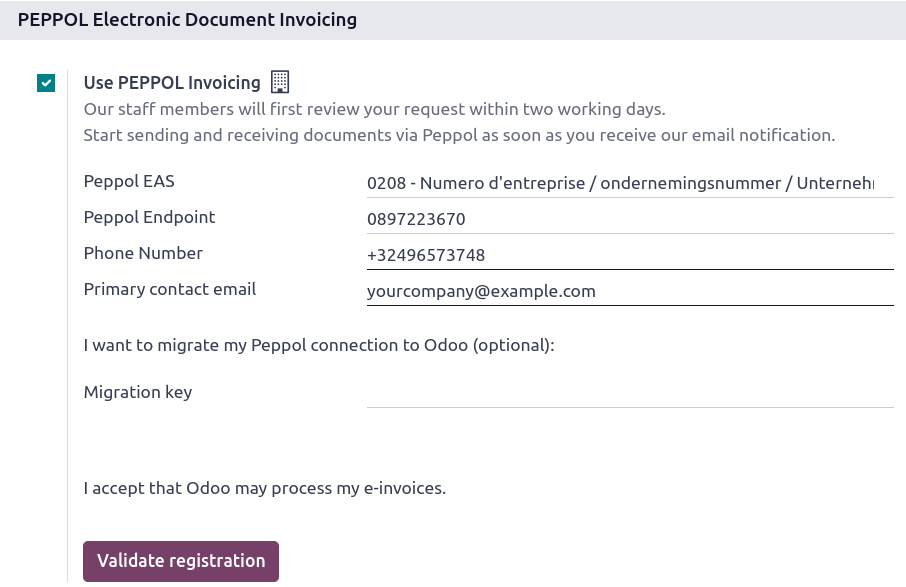
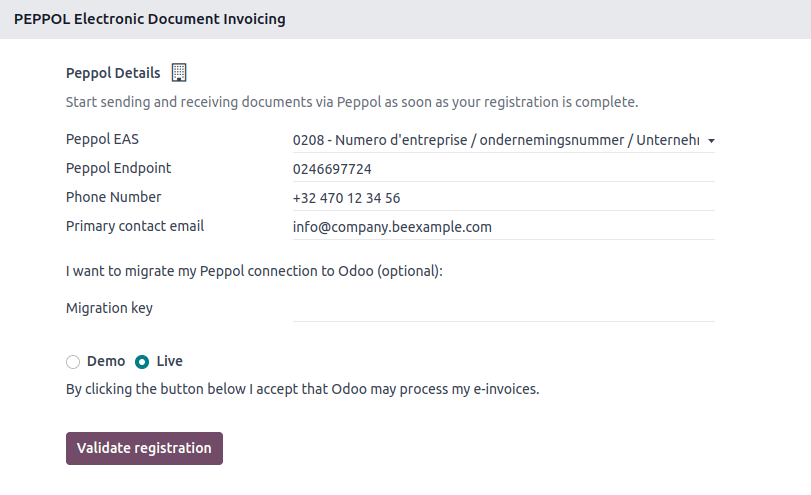
[IMP] accounting: peppol
In 17.0 we have introduced some additional features in Peppol:
- switching between the demo mode/test mode/live
- better UI that allows fetch peppol message status, new documents, etc from the accounting dashboard
- peppol ready filter to filter customer invoices that are ready to be sent via peppol

part of:
task-3614809

X-original-commit: 47300c10bfd5f77bc04afe04745d96b63a492984

Changed region(s): [[0.0617, 0.2727, 0.9864, 1.0], [0.0308, 0.1212, 0.9248, 0.2424], [0.0, 0.0, 0.4007, 0.0606]]

diff --git a/content/applications/finance/accounting/customer_invoices/electronic_invoicing.rst b/content/applications/finance/accounting/customer_invoices/electronic_invoicing.rst
@@ -124,8 +124,14 @@ If not done yet, :ref:`install <general/install>` the :guilabel:`Peppol` module 
 Registration
 ------------
 
-Go to :menuselection:`Accounting --> Configuration --> Settings`, tick the :guilabel:`Use PEPPOL
-Invoicing` checkbox, and fill in the following information:
+Go to :menuselection:`Accounting --> Configuration --> Settings`. If you do not have the
+Peppol module installed, first tick the :guilabel:`Enable PEPPOL` checkbox and then **manually
+save**.
+
+.. image:: electronic_invoicing/peppol-install.png
+   :alt: Peppol module installation
+
+Fill in the following information:
 
 - :guilabel:`Peppol EAS`. This is the Peppol Electronic Address Scheme and usually depends on your
   company's country. Odoo often prefills this with the most commonly used EAS code in your country.
@@ -145,14 +151,21 @@ previous provider.
 .. image:: electronic_invoicing/peppol-settings.png
    :alt: Configuration for peppol
 
-Finally, click on :guilabel:`Validate registration`.
+Finally, click :guilabel:`Validate registration`. If you want to explore or demo Peppol, you can
+choose to register in :guilabel:`Demo` mode. Otherwise, select :guilabel:`Live`.
+
+   .. image:: electronic_invoicing/peppol-demo-mode.png
+      :alt: Peppol demo mode selection
 
 .. note::
    When testing Peppol, the system parameter `account_peppol.edi.mode` can be changed to `test`.
-   Then, the registration occurs on the test server.
+   Then, a radio button appears with the option to register on the test server.
 
    .. image:: electronic_invoicing/peppol-system-parameter.png
-      :alt: Peppol test mode
+      :alt: Peppol test mode parameter
+
+   .. image:: electronic_invoicing/peppol-test-mode-settings.png
+      :alt: Peppol test mode selection
 
 Now, you can request a verification code to be sent to you by clicking :guilabel:`Verify phone
 number`.
@@ -205,6 +218,10 @@ is set to Valid.
    While Odoo prefills both the EAS code and the Endpoint number based on the information available
    for a contact, it is better to confirm these details directly with the contact.
 
+It is possible to verify the Peppol participant status of several customers at once.
+To do so, go to :menuselection:`Accounting --> Customers --> Customers` and switch to the list view.
+Select the customers you want to verify and then click :menuselection:`Actions --> Verify Peppol`.
+
 Send invoices
 -------------
 
@@ -215,6 +232,13 @@ invoice form. To queue multiple invoices, select them in the list view and click
 
 .. image:: electronic_invoicing/peppol-send-print.png
    :alt: Send peppol invoice
+
+Posted invoices that can be sent via Peppol are marked as :guilabel:`Peppol Ready`.
+To display them, use the :guilabel:`Peppol Ready` filter or access the Accounting dashboard and
+click :guilabel:`Peppol ready invoices` on the corresponding sales journal.
+
+.. image:: electronic_invoicing/peppol-ready-invoices.png
+   :alt: Filter Peppol ready invoices
 
 Once the invoices are sent via Peppol, the status is changed to :guilabel:`Processing`. The
 status is changed to `Done` after they have been successfully delivered to the contact's Access
@@ -228,6 +252,13 @@ Point.
    it displayed by selecting it from the optional columns, accessible from the top right corner of
    the Invoices list view.
 
+A cron runs regularly to check the status of these invoices. It is possible to check the status
+before the cron runs by clicking :guilabel:`Fetch Peppol invoice status` in the corresponding
+sales journal on the Accounting dashboard.
+
+.. image:: electronic_invoicing/peppol-fetch-message-status.png
+   :alt: Fetch invoice Peppol status
+
 Receive vendor bills
 --------------------
 
@@ -237,3 +268,10 @@ drafts.
 
 .. image:: electronic_invoicing/peppol-receive-bills.png
    :alt: peppol receive bills
+
+If you want to retrieve incoming Peppol documents before the cron runs, you can do so from the
+Accounting dashboard on the main Peppol purchase journal that you set up in the settings. Just click
+:guilabel:`Fetch from Peppol`.
+
+.. image:: electronic_invoicing/peppol-fetch-bills.png
+   :alt: Fetch bills from Peppol
